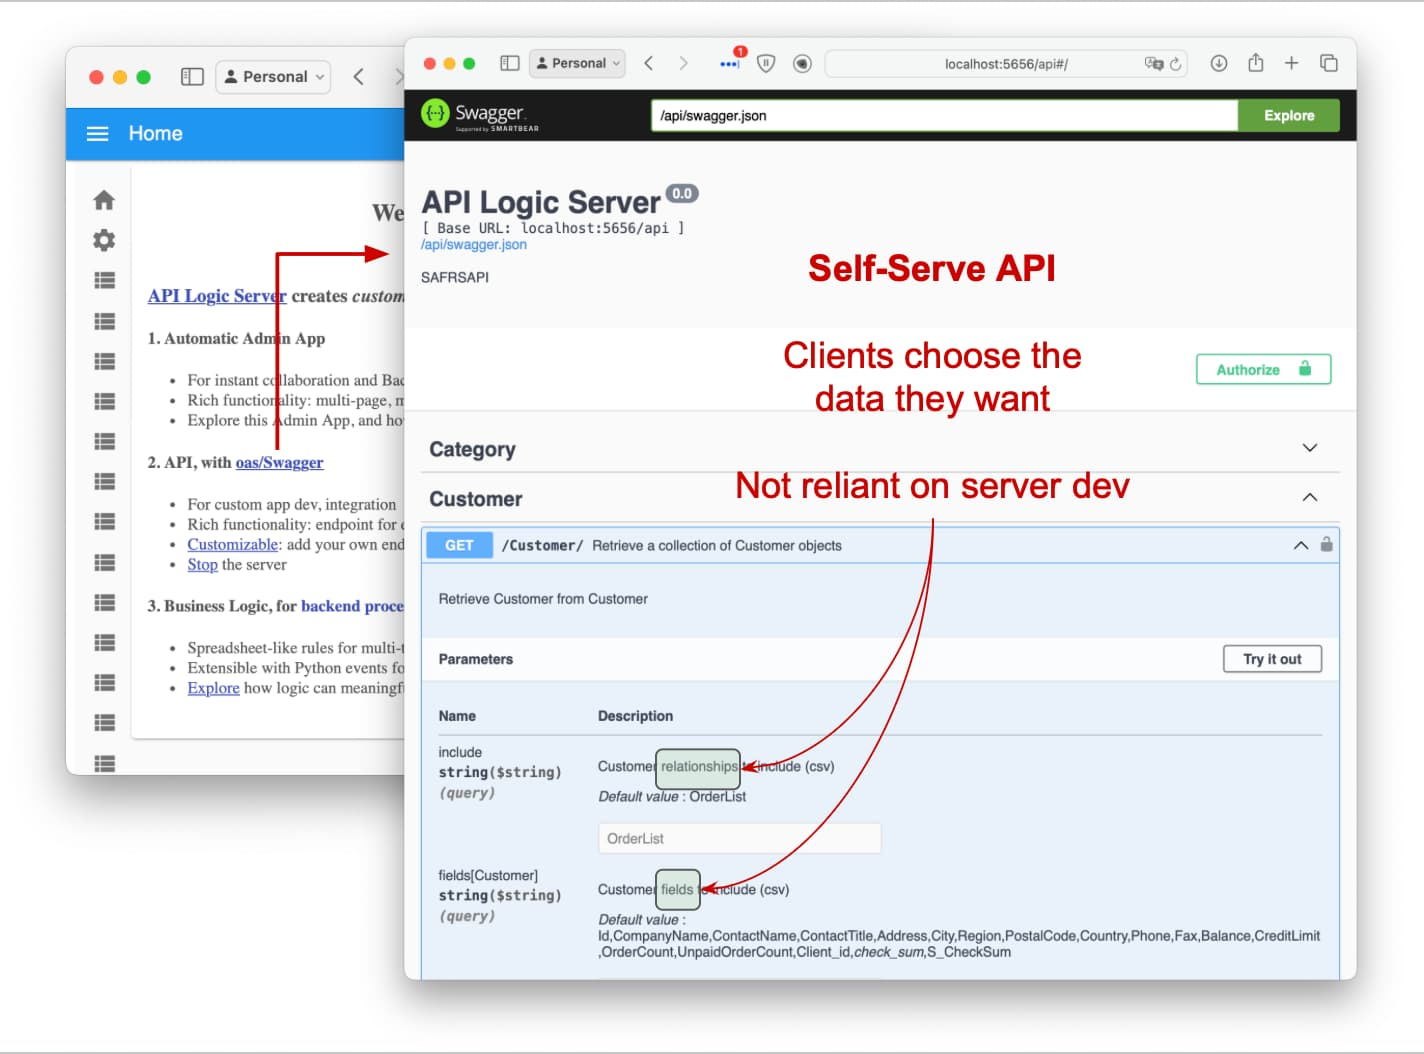
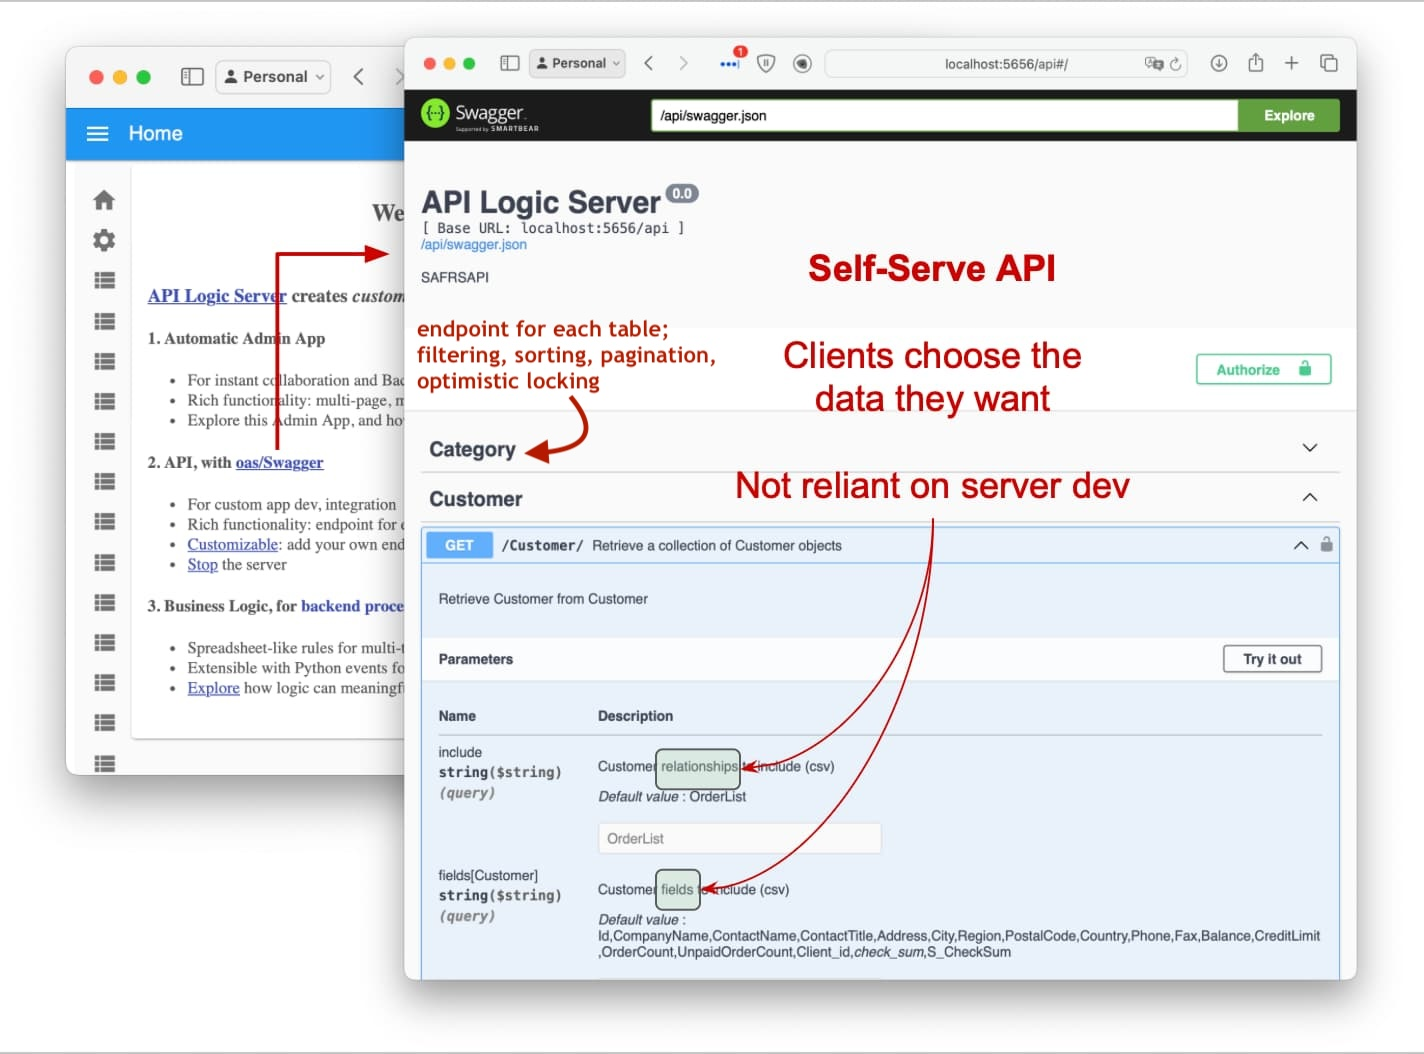
product overview

Changed region(s): [[0.2781, 0.3036, 0.4944, 0.425], [0.3708, 0.425, 0.4017, 0.4554]]

diff --git a/docs/Product-Overview.md b/docs/Product-Overview.md
@@ -1,0 +1,68 @@
+<style>
+  .md-typeset h1,
+  .md-content__button {
+    display: none;
+  }
+</style>
+
+# Instantly Create and Run Database APIs - Flask, SQLAlchemy.  Customize with Python and Rules.
+
+Python, Flask and SQLAlchemy are a great foundation for building servers.  And it's straight-forward to build a single endpoint -- many great courses, articles.
+
+But, it's a long way from `Hello World` to a running system, with a full API (filtering, pagination, optimistic locking), a usable UI, integration, etc.  And then there's the business logic, often nearly half the effort.
+
+> Imagine you could **create a running system, *instantly.*** <br><br>**Customize it in standard ways:** your IDE, Python, Flask, and SQLAlchemy.  <br><br>And, declare **business logic with spreadsheet-like rules,** reducing business logic by 40X?  
+
+Well, you've just imagined API Logic Server.  Here's how it works.
+
+&nbsp;
+
+## 1. Create: Automate Project Creation With a Single CLI Command
+
+The [**`ApiLogicServer create`**](Project-Structure.md){:target="_blank" rel="noopener"} CLI command creates an executable project by reading the database schema in the `db_url` argument.  For example, this will create an executable, customizable project from the pre-installed sample database:
+
+```bash
+ApiLogicServer create --project_name=ApiLogicProject --db_url=nw
+```
+
+&nbsp;
+
+## 2. Run: Automated JSON:API, Admin App
+
+The **project is executable**, providing a [**JSON:API**](API.md){:target="_blank" rel="noopener"} and an [**Admin App**](Admin-Tour.md){:target="_blank" rel="noopener"}:
+
+![Admin App](images/ui-admin/Order-Page.png)
+
+The Admin App provides a link to the Swagger to explore the JSON:API:
+
+![Swagger](images/integration/api-swagger.jpeg)
+
+&nbsp;
+
+## 3. Customize: Rules and Python
+
+The **project is customizable in your IDE**.  Declare rules in Python for logic and security:
+
+> Rules are unique and significant - [40X more concise than code](Logic-Why.md){:target="_blank" rel="noopener"}, and extensible with Python.
+
+![Logic](images/logic/5-rules-cocktail.png)
+
+&nbsp;
+
+## 4. Integration: custom endpoints, Kafka messages
+
+For application integration, you can use standard Flask to create new endpoints:
+
+![dict to row](https://github.com/ApiLogicServer/Docs/blob/main/docs/images/integration/dict-to-row.jpg?raw=true)
+
+And, extend logic - with Python - to produce Kafka messages:
+
+![order-to-shipping](https://github.com/ApiLogicServer/Docs/blob/main/docs/images/integration/order-to-shipping.jpg?raw=true)
+
+&nbsp;
+
+## Download and Try
+
+You can repeat this demo in 15 minutes.  Install [API Logic Server](https://apilogicserver.github.io/Docs/), and follow the Tutorial.  
+
+Then, try it with one of your own databases (MySql, Sql/Server, Ingres, Oracle, Sqlite).
